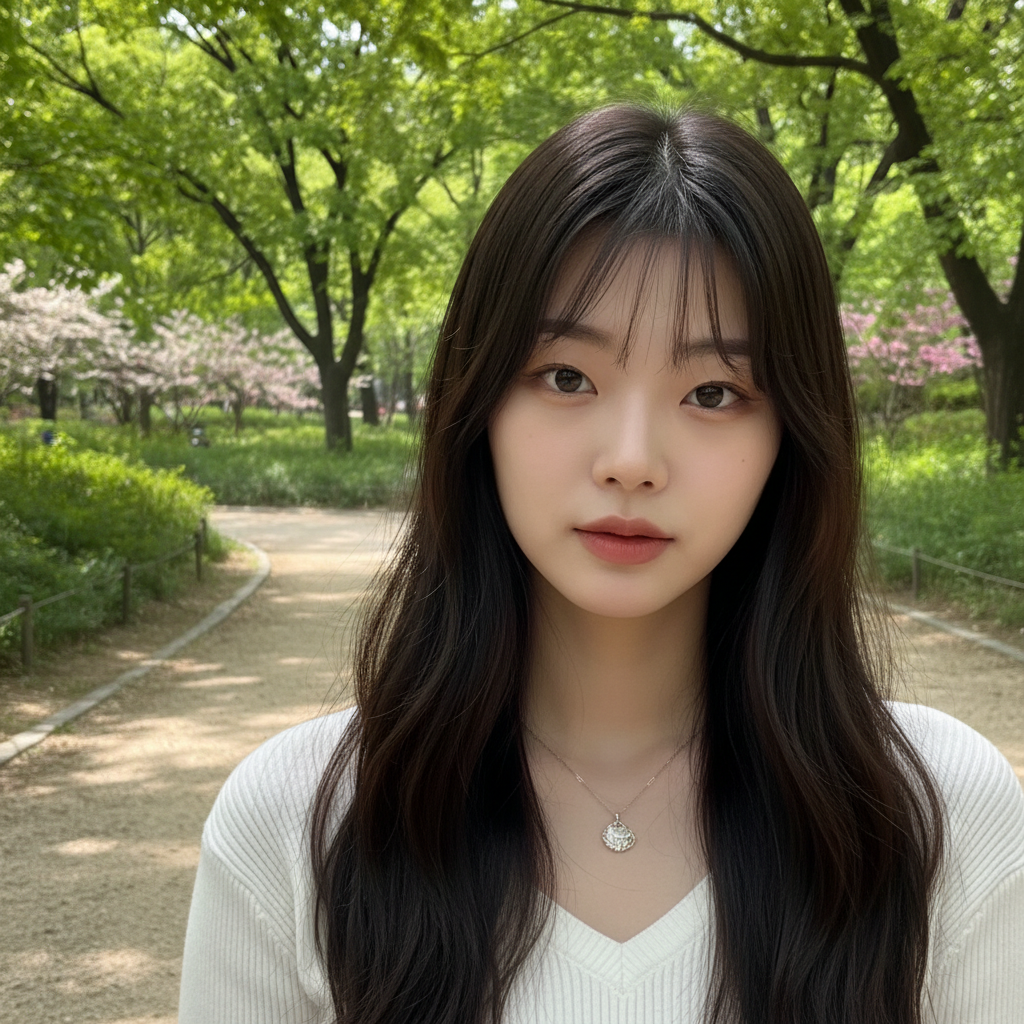
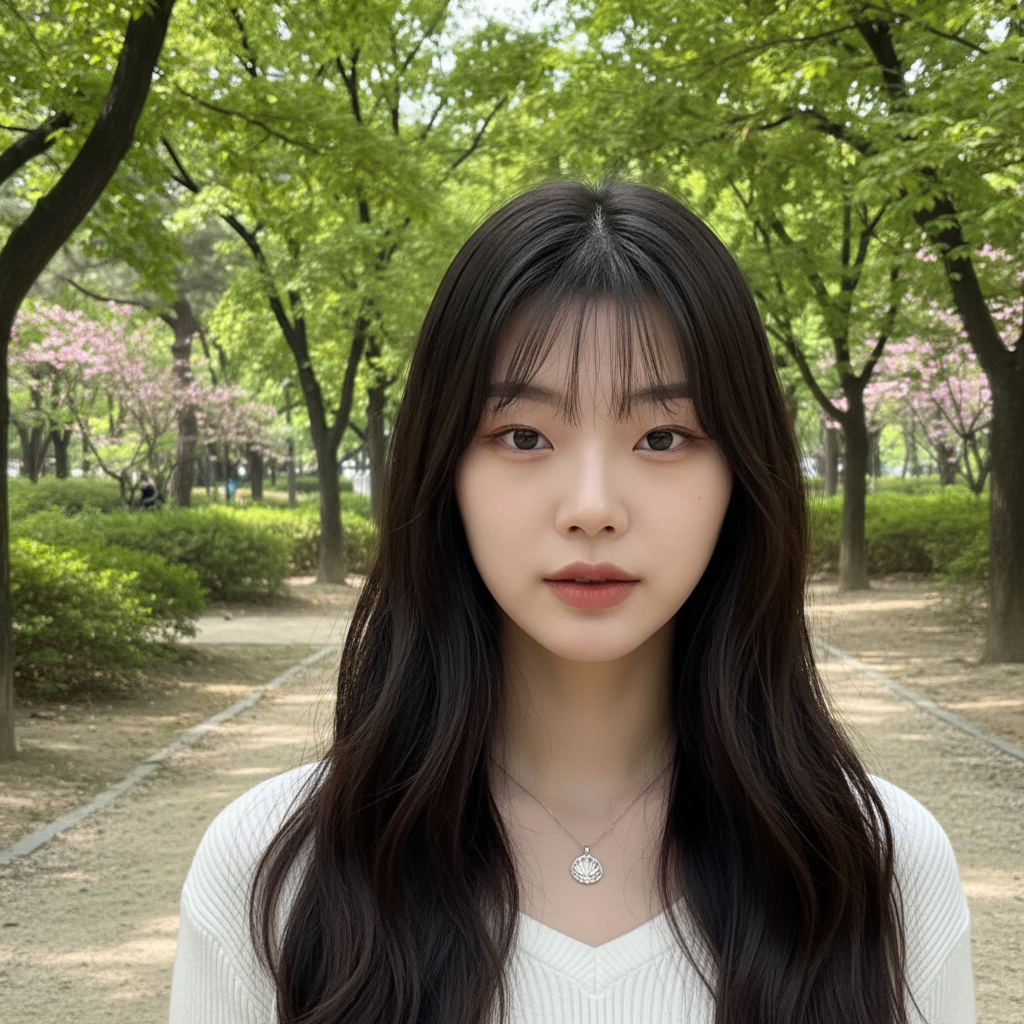
feat: 이미지 생성 보완

diff --git a/app/routers/imageRouters.py b/app/routers/imageRouters.py
@@ -37,11 +37,16 @@ def changeExpression(location: str,
     "/resultImage",
     summary="성공시 이상형과의 셀카사진을 생성함",
 )
-def changeExpression(location: str,
+def generateCoupleImage(location: str,
                      userId: str = Cookie(None),
                      service: ImageGenService = Depends(getImageGenService)
                     ):
-    image = service.generateCoupleImageService(location, userId)
+    image_path = service.generateCoupleImageService(location, userId)
+    return FileResponse(
+            path=image_path,
+            media_type="image/png",
+            filename="couple.png"
+        )
     return "ok"
     
 @router.get("/download", summary="test.png 다운로드")

diff --git a/app/services/imageGen/imageGenService.py b/app/services/imageGen/imageGenService.py
@@ -187,8 +187,10 @@ class ImageGenService:
                         image_bytes = base64.b64decode(part.inline_data.data)
                         with open(file_name, "wb") as f:
                             f.write(image_bytes)
+                        return file_name
                     elif part.text is not None:
                         print(f"Model text: {part.text}")
+                
         except Exception as e:
             print(f"Error during generation: {e}")
 
